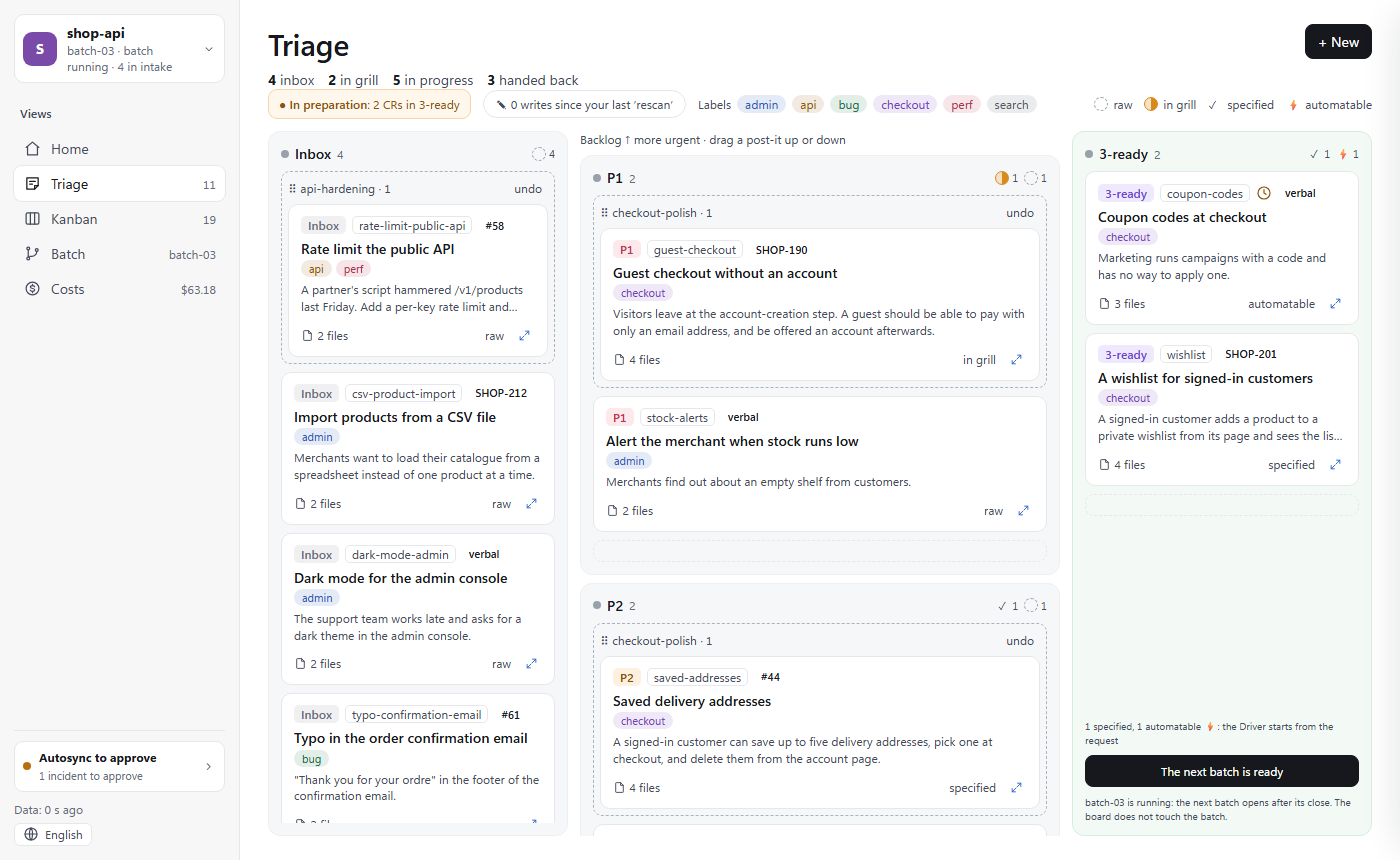
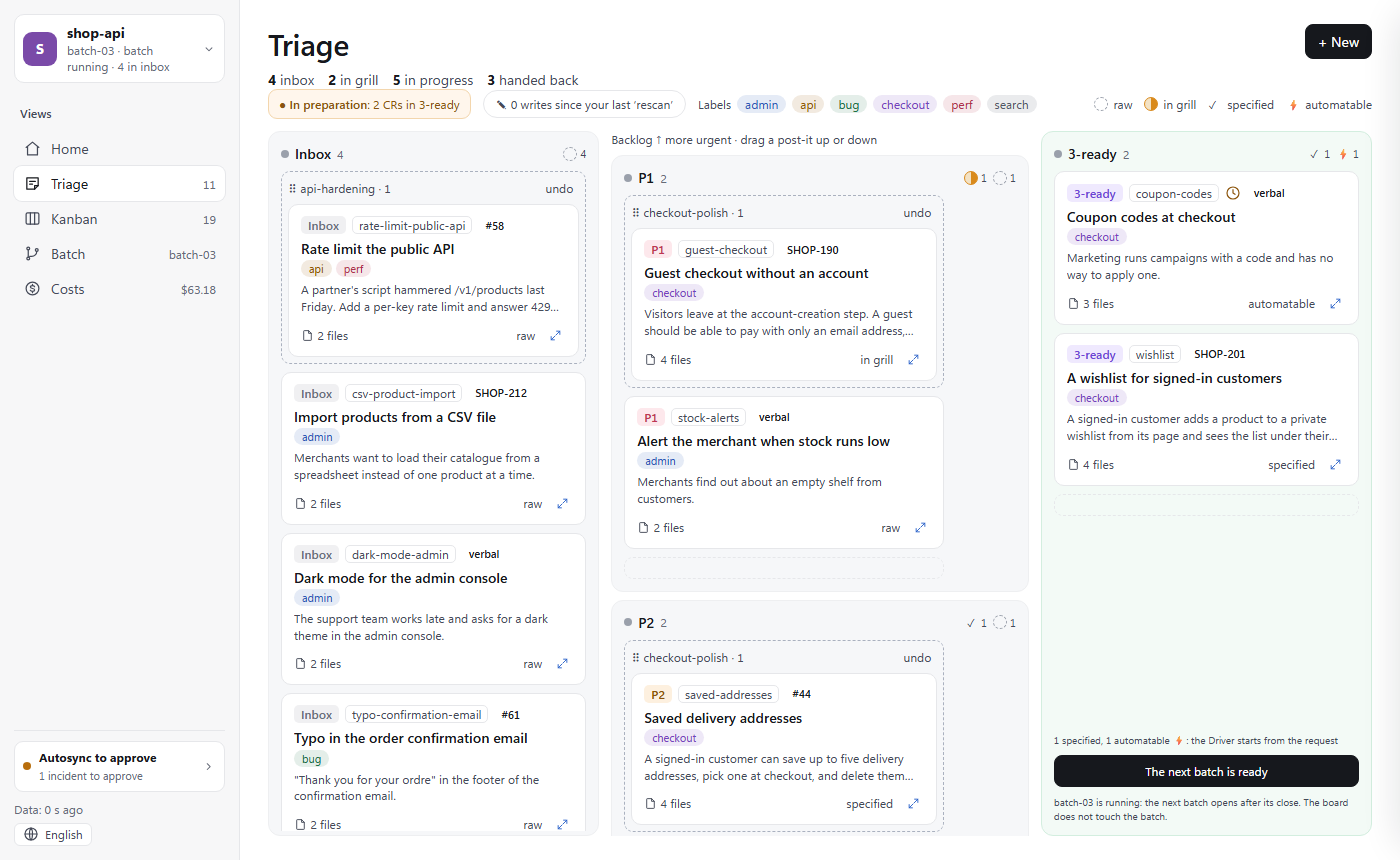
feat(board): cap Triage cards, lay the backlog out as a grid and close the panel on a view change
Cards are at most 320 px wide, hovering no longer shows a scroll bar, the side panel grows on wide windows, and a file's frontmatter is skipped in card descriptions.

diff --git a/skills/chantier/scripts/cli/src/chantier/board/web/css/views/triage.css b/skills/chantier/scripts/cli/src/chantier/board/web/css/views/triage.css
@@ -96,7 +96,9 @@
   flex: 1;
   min-height: 0;
   display: grid;
-  grid-template-columns: minmax(0, 1fr) minmax(0, 1.6fr) minmax(0, 1fr);
+  /* the inbox and 3-ready hold one capped card; the backlog takes the rest of the width */
+  --pi-col: min(calc(var(--pi-w) + 2 * var(--space-3) + 2px), 30%);
+  grid-template-columns: minmax(0, var(--pi-col)) minmax(0, 1fr) minmax(0, var(--pi-col));
   gap: var(--space-3);
 }
 
@@ -162,13 +164,26 @@
   font-size: var(--text-badge);
 }
 
+/* The padding and the opposite margin leave room for a hovered card's tilt and shadow, which would
+   otherwise make the scrolling body show a horizontal bar. */
 .tbody {
   flex: 1;
   min-height: 0;
-  overflow: auto;
+  margin: calc(-1 * var(--space-2)) calc(-1 * var(--space-3));
+  padding: var(--space-2) var(--space-3);
+  overflow-x: hidden;
+  overflow-y: auto;
   display: flex;
   flex-direction: column;
   gap: var(--space-2);
+}
+
+/* a backlog lane: capped cards side by side, as many per row as the lane holds */
+.tcol.lane .tbody {
+  display: grid;
+  grid-template-columns: repeat(auto-fill, minmax(min(100%, var(--pi-w)), var(--pi-w)));
+  align-content: start;
+  justify-content: start;
 }
 
 .lanes {
@@ -176,7 +191,8 @@
   flex-direction: column;
   gap: var(--space-2);
   min-height: 0;
-  overflow: auto;
+  overflow-x: hidden;
+  overflow-y: auto;
 }
 
 .lanesh {
@@ -204,6 +220,12 @@
   color: var(--ink3);
   font-size: var(--text-small);
   text-align: center;
+}
+
+/* in a lane's grid, a group's frame and the drop zone span the whole row */
+.tcol.lane .tbody > .grpf,
+.tcol.lane .tbody > .dropzone {
+  grid-column: 1 / -1;
 }
 
 .rfoot {

diff --git a/skills/chantier/scripts/cli/src/chantier/board/web/js/core/router.js b/skills/chantier/scripts/cli/src/chantier/board/web/js/core/router.js
@@ -58,11 +58,16 @@ const reset = {
   pending: [],
 };
 
+// A change of view closes the file panel (the project's change resets it with the rest).
+const closed = { panel: null, panelTree: null, panelFile: null, editing: null };
+
 function apply(place) {
-  const moved = place.project !== snapshot().project;
+  const now = snapshot();
+  const moved = place.project !== now.project;
+  const turned = place.view !== now.view;
   if (place.project) setPref(CHOSEN, place.project);
   if (place.project && place.project !== ALL) setPref(LAST, place.project);
-  update({ ...place, ...(moved ? reset : {}) });
+  update({ ...place, ...(turned ? closed : {}), ...(moved ? reset : {}) });
 }
 
 // The relative address of a place: it keeps the page's own address in front of the query.

diff --git a/skills/chantier/scripts/cli/src/chantier/board/web/css/views/postit.css b/skills/chantier/scripts/cli/src/chantier/board/web/css/views/postit.css
@@ -2,6 +2,7 @@
 /* a Triage card is the Kanban's `.card`; `.pi` adds the pick-up: it tilts and lifts under the pointer */
 .pi {
   position: relative;
+  max-width: var(--pi-w);
   cursor: grab;
   transition:
     transform 0.12s ease,
@@ -71,9 +72,14 @@
   border: 1px dashed var(--edge-arrow);
   border-radius: var(--radius-m);
   padding: 6px;
-  display: flex;
-  flex-direction: column;
+  display: grid;
+  grid-template-columns: repeat(auto-fill, minmax(min(100%, var(--pi-w)), var(--pi-w)));
+  justify-content: start;
   gap: 6px;
+}
+
+.grpf > .gh {
+  grid-column: 1 / -1;
 }
 
 .grpf .gh {

diff --git a/skills/chantier/scripts/cli/src/chantier/board/web/css/panel.css b/skills/chantier/scripts/cli/src/chantier/board/web/css/panel.css
@@ -37,7 +37,7 @@
 .panel .pbody {
   display: grid;
   flex: 1;
-  grid-template-columns: 210px 1fr;
+  grid-template-columns: 210px minmax(0, 1fr);
   min-height: 0;
 }
 
@@ -163,13 +163,18 @@
   background: none;
 }
 
+/* a table wider than the file column scrolls sideways by itself, its cells never one word a line */
 .panel .doc table {
+  display: block;
+  max-width: 100%;
   margin: 10px 0;
+  overflow-x: auto;
   font-size: var(--text-small);
 }
 
 .panel .doc th,
 .panel .doc td {
+  min-width: 6em;
   padding: 5px 8px;
   vertical-align: top;
 }

diff --git a/skills/chantier/scripts/cli/src/chantier/board/web/css/components.css b/skills/chantier/scripts/cli/src/chantier/board/web/css/components.css
@@ -228,7 +228,7 @@ th.num {
   z-index: 10;
   display: flex;
   flex-direction: column;
-  width: min(var(--panel-width), calc(100% - 28px));
+  width: min(max(var(--panel-width), var(--panel-share)), calc(100% - 28px));
   background: var(--panel);
   border: 1px solid var(--line);
   border-radius: 14px;

diff --git a/skills/chantier/scripts/cli/src/chantier/board/web/css/tokens.css b/skills/chantier/scripts/cli/src/chantier/board/web/css/tokens.css
@@ -151,6 +151,8 @@
   --radius: 12px;
   --side-width: 240px;
   --panel-width: 680px;
+  --panel-share: 45vw; /* the panel grows with a wide window, 680px as its floor */
+  --pi-w: 320px; /* the width of a Triage card, never wider */
   --bar-height: 62px;
   --phone-max: 760px;
 }

diff --git a/skills/chantier/scripts/cli/tests/test_board_description.py b/skills/chantier/scripts/cli/tests/test_board_description.py
@@ -1,0 +1,40 @@
+"""The card's text (`description`) never shows a frontmatter."""
+
+from __future__ import annotations
+
+from pathlib import Path
+
+import pytest
+
+from chantier.board.backlog import description
+
+FM = "---\ntype: cr-intent\nid: x\n---\n"
+CASES = [
+    pytest.param({"01-intent.md": FM + "\n# T\n\nThe text.\n"}, "The text.", id="frontmatter"),
+    pytest.param(
+        {"01-intent.md": FM.replace("\n", "\r\n") + "\r\nThe text.\r\n"},
+        "The text.",
+        id="crlf",
+    ),
+    pytest.param({"01-intent.md": "" + FM + "\nThe text.\n"}, "The text.", id="bom"),
+    pytest.param(
+        {"01-intent.md": FM + "\n# Only headings\n", "notes.md": "Next file."},
+        "Next file.",
+        id="only-frontmatter-falls-through",
+    ),
+    pytest.param(
+        {"01-intent.md": "First paragraph.\n\n---\n\nAfter a rule.\n"},
+        "First paragraph.",
+        id="rule-lower-is-not-frontmatter",
+    ),
+    pytest.param({"01-intent.md": "Plain text.\n\nMore.\n"}, "Plain text.", id="no-frontmatter"),
+]
+
+
+@pytest.mark.parametrize(("files", "expected"), CASES)
+def test_description_skips_a_frontmatter(
+    tmp_path: Path, files: dict[str, str], expected: str
+) -> None:
+    for name, text in files.items():
+        (tmp_path / name).write_bytes(text.encode("utf-8"))
+    assert description(tmp_path) == expected

diff --git a/skills/chantier/scripts/cli/src/chantier/board/backlog.py b/skills/chantier/scripts/cli/src/chantier/board/backlog.py
@@ -28,9 +28,14 @@ def _plain(paragraph: str) -> str:
     return " ".join(paragraph.split())
 
 
+FRONTMATTER = re.compile(r"\A?---[ \t]*\n.*?\n---[ \t]*(?:\n|\Z)", re.S)
+
+
 def _first_paragraph(text: str) -> str:
-    """The first paragraph that is not a heading, an `issue:` line or a code fence."""
-    for block in re.split(r"\n\s*\n", text.replace("\r\n", "\n")):
+    """The first paragraph that is not a heading, an `issue:` line or a code fence, after a
+    frontmatter at the very start of the text."""
+    text = FRONTMATTER.sub("", text.replace("\r\n", "\n"), count=1)
+    for block in re.split(r"\n\s*\n", text):
         first = block.strip().splitlines()[0] if block.strip() else ""
         if first and not first.startswith(("#", "```")) and not first.lower().startswith("issue:"):
             return _plain(block)

diff --git a/docs/web-board.md b/docs/web-board.md
@@ -63,7 +63,7 @@ Seven columns, from the idea to the merged CR: **Inbox** (`1-inbox`), **Backlog*
 
 ![Triage: the inbox, the backlog by priority and 3-ready](web-board/triage-pc.png)
 
-The place where you sort the backlog. Each item is a post-it, the same card as the Kanban's with the selection and the drag added: its folder name, where the request came from (an issue number, a Jira key or `verbal`), its labels, and a mark for how far it has been worked (raw, in grill, specified, automatable). A dashed post-it with a clock has a late summary: the CR changed after its summary was written.
+The place where you sort the backlog. Each item is a post-it, the same card as the Kanban's with the selection and the drag added: its folder name, where the request came from (an issue number, a Jira key or `verbal`), its labels, and a mark for how far it has been worked (raw, in grill, specified, automatable). A dashed post-it with a clock has a late summary: the CR changed after its summary was written. On a wide screen each priority shows its post-its side by side, as many per row as fit, each the width of an inbox post-it.
 
 - Drag a post-it between **Inbox**, a priority (P1 more urgent than P4) and **3-ready**, or up and down in a column.
 - Select several post-its for the bar that groups them under a theme (a group moves to the first post-it's column, **undo** takes it apart) or labels them (one lower-case word).
